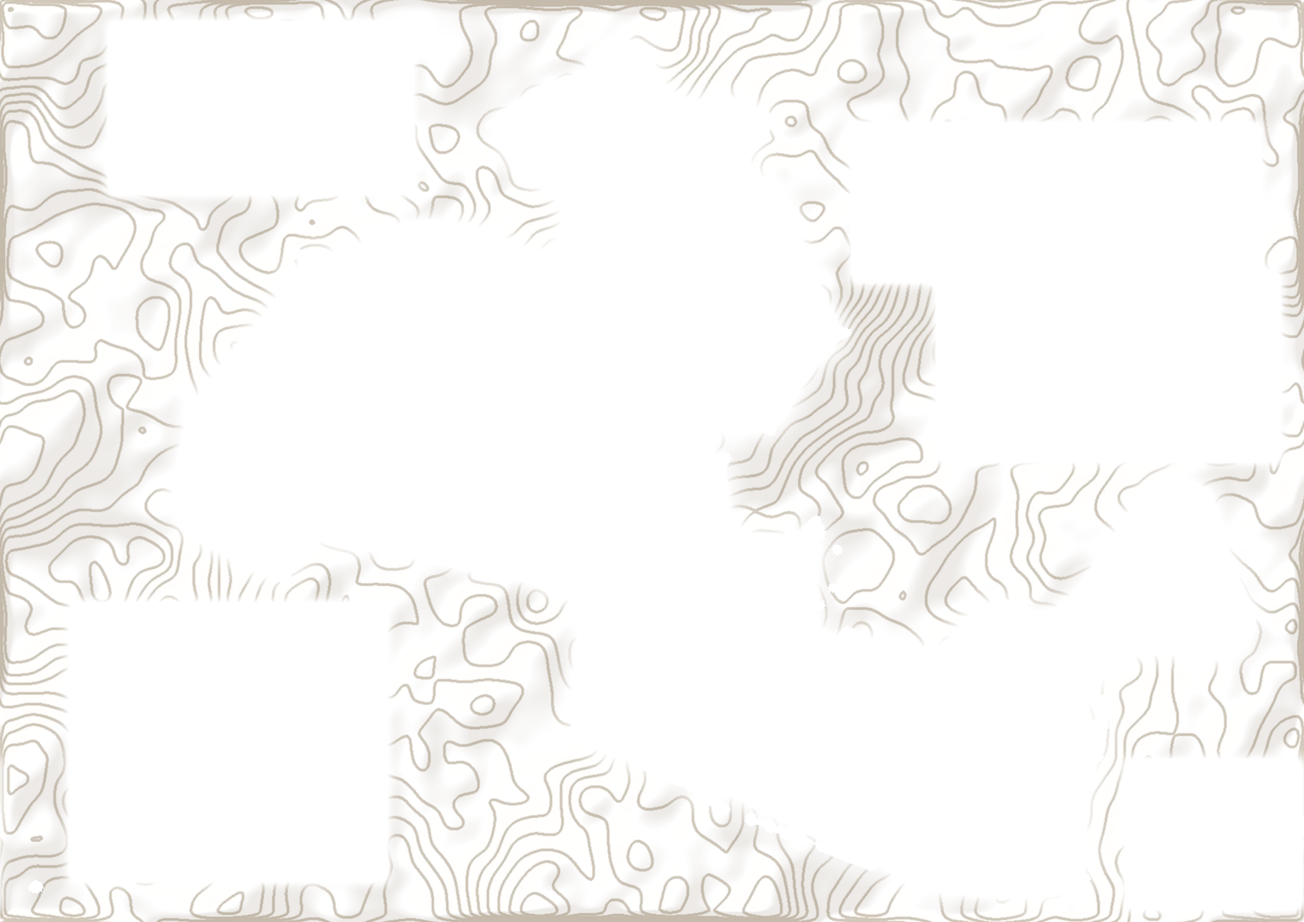
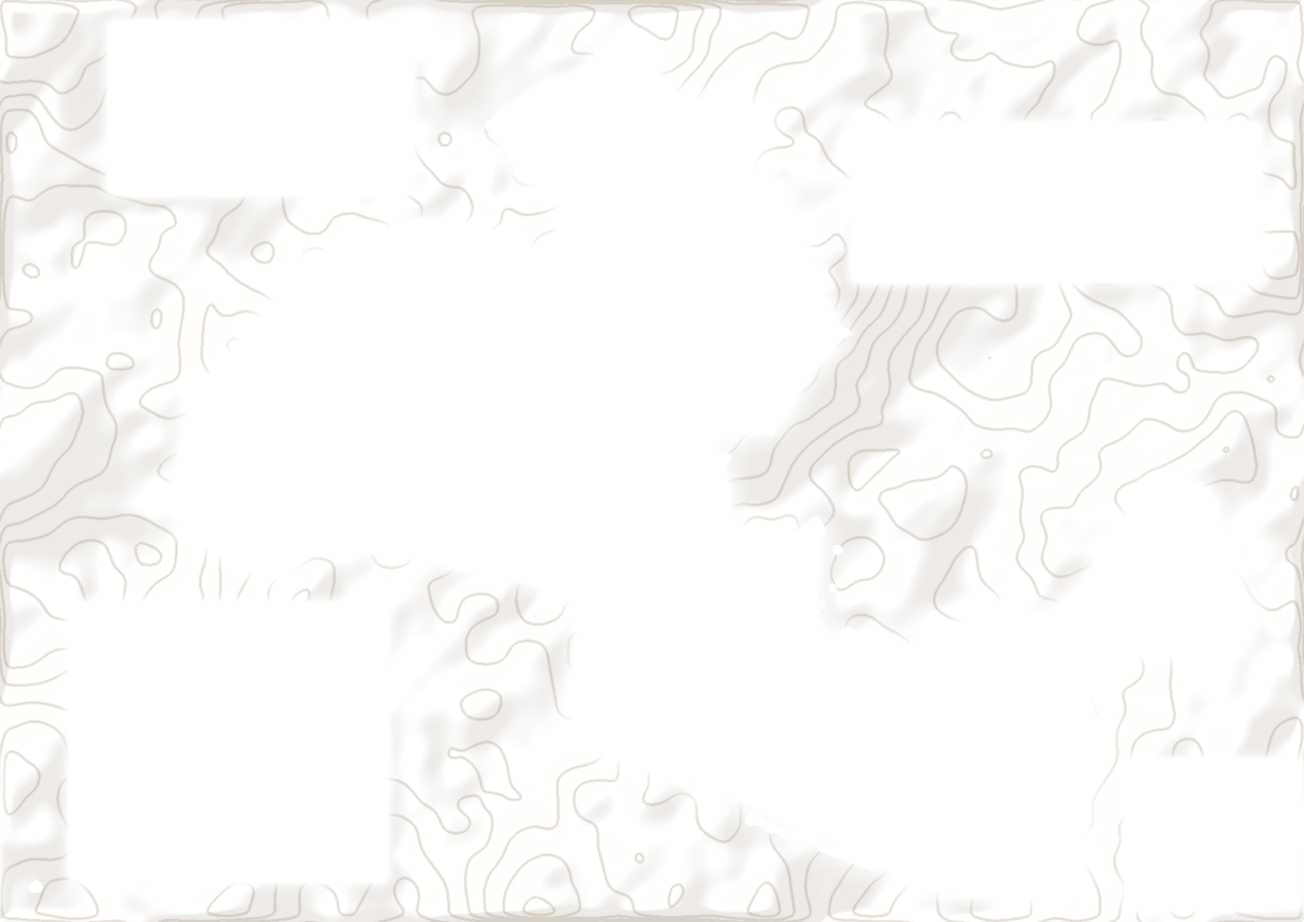
Public map: lighter contour lines; remove the cartouche (sun times) and the 'Peacock Green' label

diff --git a/src/lib/marginSpots.ts b/src/lib/marginSpots.ts
@@ -1,4 +1,4 @@
 // Generated by scripts/build_margin_art.py - do not edit by hand.
 // Spots on the blank paper around the estate (% of the plan): [x, y, size, group].
-export const STARS: [number, number, number, number][] = [[12.89, 96.7, 1.32, 2], [50.44, 87.89, 1.28, 1], [32.78, 87.74, 0.87, 0], [73.78, 8.49, 0.97, 3], [2.0, 44.81, 1.25, 1], [70.78, 5.35, 1.37, 0], [1.89, 65.72, 0.99, 1], [1.11, 97.17, 0.57, 3], [2.56, 9.91, 1.54, 1], [35.44, 8.02, 1.05, 4], [72.89, 10.69, 1.17, 2], [64.67, 1.89, 1.12, 3], [76.0, 8.81, 0.79, 4], [2.56, 81.6, 0.85, 2], [85.11, 4.09, 1.05, 4], [32.78, 80.82, 1.56, 1], [20.44, 64.94, 1.36, 0], [6.11, 0.63, 1.02, 1], [60.22, 91.82, 1.47, 2], [28.33, 0.0, 0.64, 3], [62.11, 51.73, 0.77, 2], [56.11, 91.04, 0.88, 1], [4.44, 88.21, 0.94, 4], [69.56, 37.26, 1.36, 0], [96.0, 77.83, 1.6, 0], [58.78, 98.43, 1.55, 0], [56.78, 49.37, 0.72, 3], [71.67, 41.04, 1.22, 3], [8.0, 24.53, 0.91, 0], [36.22, 63.99, 0.54, 0], [34.22, 91.04, 0.67, 0], [1.56, 65.09, 0.7, 3], [74.11, 98.43, 0.77, 4], [37.56, 73.74, 1.41, 4], [27.22, 61.16, 0.56, 0], [95.89, 74.53, 0.57, 2], [43.11, 81.45, 1.4, 4], [60.22, 98.27, 0.52, 2], [66.33, 50.63, 0.75, 4], [2.22, 81.45, 0.79, 2], [58.78, 96.7, 0.73, 2], [98.89, 33.33, 1.57, 1], [4.78, 82.23, 1.13, 1], [83.0, 99.69, 1.13, 4], [60.89, 19.18, 1.31, 1], [92.78, 10.85, 1.59, 2], [40.78, 23.11, 0.59, 2], [9.89, 30.66, 1.39, 2], [54.44, 49.21, 1.04, 3], [85.11, 56.6, 1.22, 3], [21.67, 22.8, 0.83, 1], [83.78, 58.02, 1.07, 2], [13.0, 33.49, 1.15, 0], [27.22, 0.47, 0.7, 1], [80.78, 99.37, 1.49, 1], [67.44, 50.0, 1.15, 2], [91.56, 11.64, 1.27, 1], [16.56, 96.54, 1.6, 1], [34.67, 99.06, 1.38, 4], [20.33, 96.86, 0.87, 3], [2.67, 60.38, 1.14, 2], [31.67, 67.77, 0.6, 2], [70.44, 47.01, 1.07, 3], [99.67, 28.3, 1.07, 1], [80.56, 51.26, 0.59, 3], [32.67, 97.64, 0.73, 2], [56.78, 55.97, 0.83, 4], [98.22, 38.36, 0.78, 3], [74.56, 9.28, 0.84, 0], [98.89, 25.16, 1.12, 2], [36.44, 15.72, 0.82, 0], [62.67, 28.3, 0.78, 0], [25.67, 0.0, 1.37, 0], [6.33, 10.53, 1.56, 1], [55.44, 92.3, 0.98, 4], [97.22, 10.69, 0.57, 3], [13.67, 27.83, 1.08, 1], [18.0, 36.95, 0.92, 0], [78.67, 97.96, 1.32, 3], [62.67, 8.49, 1.49, 4], [82.11, 6.29, 0.76, 2], [66.78, 37.42, 1.5, 2], [63.89, 19.97, 0.64, 4], [87.67, 70.91, 0.73, 1], [8.67, 27.52, 1.4, 3], [0.0, 11.32, 1.56, 0], [68.56, 59.59, 0.71, 0], [5.33, 25.16, 0.97, 2], [67.11, 58.02, 1.36, 2], [89.67, 81.6, 1.11, 4], [19.78, 1.26, 0.76, 2], [88.44, 8.18, 1.22, 1], [38.0, 15.57, 1.54, 2], [79.22, 1.89, 0.71, 2], [21.33, 24.21, 0.89, 0], [53.22, 93.71, 0.86, 2], [69.56, 37.89, 0.69, 2], [17.22, 97.17, 1.28, 4], [16.22, 28.93, 0.51, 4], [98.44, 33.02, 1.5, 1], [18.67, 25.94, 0.84, 0], [81.44, 55.66, 1.03, 1], [34.56, 69.97, 0.74, 2], [51.44, 9.43, 1.3, 2], [3.33, 21.23, 0.75, 4], [48.33, 1.73, 0.68, 1], [62.56, 99.06, 0.66, 2], [35.22, 5.82, 1.53, 1], [74.22, 7.39, 1.42, 4], [61.89, 26.73, 0.95, 3], [25.56, 65.25, 0.93, 3], [32.56, 77.2, 1.0, 3], [64.0, 66.82, 0.54, 0], [33.44, 0.0, 1.24, 0], [95.11, 55.82, 1.55, 0], [3.89, 14.15, 1.12, 4], [36.89, 67.92, 1.48, 2], [40.11, 87.42, 0.83, 3], [16.33, 34.43, 0.74, 0], [34.0, 75.0, 1.0, 2], [68.0, 2.67, 0.81, 0], [50.22, 99.84, 1.31, 2], [34.33, 15.41, 0.88, 1], [68.78, 13.21, 0.76, 3], [0.22, 87.89, 1.59, 2], [65.56, 61.48, 0.69, 1], [69.44, 10.53, 1.35, 4], [66.22, 64.15, 1.16, 2], [37.33, 66.04, 1.07, 2], [65.67, 35.53, 0.61, 3], [20.67, 97.33, 1.59, 2], [38.89, 3.46, 1.3, 0], [57.78, 1.57, 0.99, 2], [36.89, 93.55, 1.46, 1], [3.11, 54.09, 0.72, 0], [35.56, 6.92, 1.55, 4], [97.11, 78.14, 1.41, 3], [62.67, 22.01, 1.09, 3], [57.67, 6.13, 1.09, 0], [12.44, 25.94, 1.19, 3], [70.22, 53.46, 1.03, 0], [58.11, 95.6, 1.54, 4], [42.33, 86.32, 0.55, 0], [94.67, 12.42, 0.61, 0], [53.0, 98.74, 1.48, 3], [1.33, 26.26, 0.67, 2], [25.44, 25.31, 0.74, 4], [62.0, 2.04, 1.09, 3], [40.67, 65.88, 0.63, 3], [61.78, 51.42, 1.03, 2], [4.0, 55.35, 0.89, 4], [17.33, 0.79, 1.38, 1], [6.44, 42.61, 1.54, 2], [15.44, 40.88, 0.94, 3], [11.33, 62.89, 0.58, 4], [12.11, 30.03, 0.87, 1], [86.11, 80.66, 0.94, 0], [7.11, 48.58, 0.95, 4], [32.78, 0.94, 0.96, 1], [0.0, 26.57, 1.25, 3], [41.22, 22.33, 0.77, 2], [76.67, 0.0, 1.28, 0], [42.0, 94.34, 0.96, 3], [69.33, 40.25, 1.01, 4], [4.89, 82.39, 1.42, 0], [31.11, 62.58, 0.89, 2], [67.89, 68.55, 1.52, 1], [73.56, 52.36, 0.84, 0], [70.67, 44.5, 0.92, 0], [92.89, 5.35, 1.07, 3], [67.0, 63.21, 0.94, 3], [12.0, 25.63, 1.25, 1], [46.56, 85.06, 1.52, 0], [98.0, 11.01, 1.01, 2], [13.89, 35.85, 0.99, 2], [1.67, 34.12, 0.8, 2], [79.78, 65.57, 1.0, 4], [15.67, 96.38, 0.61, 2], [8.67, 25.0, 1.03, 1], [30.78, 74.21, 0.9, 1], [1.78, 31.45, 1.48, 0], [0.22, 88.36, 0.67, 4], [34.44, 20.91, 0.97, 3], [58.11, 57.39, 1.04, 1], [97.89, 52.67, 0.52, 3], [13.89, 43.55, 1.04, 0], [63.78, 32.23, 0.97, 2], [0.78, 72.48, 0.5, 2], [49.78, 85.85, 1.04, 0], [4.56, 67.92, 1.0, 4], [64.33, 11.01, 0.63, 1], [47.0, 2.52, 0.9, 4], [99.56, 69.5, 1.4, 3], [76.56, 97.96, 1.34, 3], [7.56, 15.72, 0.87, 0], [96.89, 8.18, 1.04, 3], [71.11, 36.95, 1.12, 4], [98.89, 50.47, 1.38, 4], [1.33, 47.8, 0.58, 3], [69.67, 63.52, 1.58, 4], [79.78, 55.66, 1.16, 2], [70.89, 62.42, 0.79, 0], [49.22, 89.62, 1.6, 4], [85.33, 92.92, 0.88, 1], [0.89, 66.04, 0.57, 2], [1.22, 89.62, 1.34, 0], [0.11, 99.06, 0.76, 3], [39.67, 66.19, 1.41, 1], [12.89, 39.15, 1.52, 2], [55.56, 99.53, 1.4, 4], [71.44, 45.44, 0.76, 0], [99.0, 63.52, 1.43, 4], [62.78, 45.75, 0.64, 0], [3.78, 31.29, 1.51, 1], [4.78, 16.35, 0.78, 4], [17.89, 28.46, 0.87, 3], [5.11, 82.86, 0.64, 0], [34.67, 68.71, 0.51, 3], [67.22, 12.26, 1.17, 2], [88.22, 75.63, 0.66, 3], [38.44, 86.16, 1.04, 4], [70.0, 63.36, 1.16, 2], [96.89, 58.65, 0.73, 3], [0.67, 51.73, 1.38, 4], [28.22, 96.07, 1.05, 2], [44.0, 82.55, 0.64, 4], [43.89, 8.02, 1.0, 1], [6.44, 2.36, 1.3, 4], [22.56, 29.25, 1.12, 2], [81.33, 10.69, 1.33, 1], [37.56, 2.67, 0.52, 2], [48.56, 79.09, 1.12, 1], [4.44, 21.86, 0.54, 4], [33.0, 0.47, 1.01, 3], [83.0, 61.32, 1.04, 3], [39.11, 5.97, 0.61, 1], [36.78, 70.91, 0.59, 2], [1.0, 42.92, 0.58, 1], [86.22, 96.54, 0.7, 1], [89.11, 8.02, 1.05, 2], [4.89, 7.86, 0.74, 4], [88.78, 77.83, 1.59, 3], [86.56, 81.6, 1.42, 1], [59.67, 0.16, 1.08, 2], [51.44, 90.25, 1.45, 3], [73.11, 62.26, 1.43, 2], [34.56, 5.5, 1.48, 0], [86.44, 2.83, 0.63, 4], [59.44, 11.64, 0.55, 3], [85.44, 80.97, 0.83, 4], [80.78, 57.23, 1.18, 0], [69.11, 51.42, 0.85, 2], [37.0, 90.88, 0.74, 2], [95.78, 81.45, 0.94, 4], [77.0, 54.87, 1.16, 4], [13.11, 22.01, 1.04, 1], [4.11, 64.78, 1.59, 3], [10.67, 53.46, 0.87, 2], [28.0, 21.7, 0.76, 0], [6.0, 58.81, 0.67, 1]];
-export const VILLAGE_LIGHTS: [number, number, number, number][] = [[21.2, 24.07, 0.73, 2], [22.67, 26.15, 0.99, 2], [21.64, 25.37, 1.08, 2], [21.46, 24.75, 1.2, 0], [21.53, 25.68, 0.81, 1], [22.05, 24.91, 1.32, 2], [21.92, 25.34, 0.74, 2], [19.73, 25.32, 1.28, 2], [21.34, 25.27, 0.63, 2], [21.25, 25.86, 0.72, 2], [57.75, 5.21, 0.98, 0], [57.48, 4.51, 1.34, 2], [56.69, 5.44, 1.06, 1], [56.8, 4.73, 0.69, 1], [57.14, 4.29, 1.09, 0], [57.08, 6.29, 0.73, 3], [84.43, 2.92, 1.07, 0], [84.19, 5.34, 0.84, 1], [85.23, 4.9, 0.98, 3], [84.17, 3.11, 0.61, 1], [84.91, 3.36, 0.96, 3], [85.81, 4.81, 0.92, 2], [85.38, 4.16, 1.01, 0], [0.86, 48.45, 1.27, 1], [0.38, 49.91, 1.35, 3], [0.31, 48.47, 0.62, 2], [0.53, 48.38, 0.93, 1], [1.08, 50.83, 0.62, 3], [8.53, 50.68, 1.11, 3], [8.52, 50.09, 1.38, 0], [7.75, 51.4, 1.35, 3], [9.87, 51.39, 1.12, 0], [8.2, 51.68, 0.83, 0], [95.1, 73.02, 0.88, 1], [96.72, 73.65, 1.1, 2], [95.96, 72.94, 1.14, 0], [96.57, 73.09, 1.23, 3], [95.76, 70.65, 0.85, 3], [96.27, 71.91, 0.98, 1], [97.06, 72.94, 0.7, 0], [98.66, 80.31, 0.97, 0], [97.69, 80.34, 1.03, 0], [99.46, 80.03, 1.39, 3], [98.91, 78.45, 1.31, 0], [98.62, 79.86, 1.08, 3], [98.08, 79.99, 0.75, 0], [65.14, 97.94, 1.2, 3], [63.95, 97.63, 0.75, 0], [66.0, 97.16, 0.64, 0], [63.9, 98.06, 1.13, 3], [63.2, 96.85, 1.02, 1], [65.38, 98.06, 1.35, 3], [64.25, 97.34, 0.92, 0], [77.02, 99.37, 0.77, 2], [75.52, 99.76, 1.13, 2], [75.77, 99.75, 0.92, 0], [77.13, 98.35, 0.82, 1], [77.08, 99.66, 1.03, 3]];
+export const STARS: [number, number, number, number][] = [[9.56, 96.23, 1.32, 2], [47.11, 85.53, 1.28, 1], [48.11, 85.22, 0.87, 0], [37.44, 9.75, 0.97, 3], [98.78, 41.98, 1.25, 1], [57.33, 6.13, 1.37, 0], [67.78, 62.89, 0.99, 1], [31.0, 96.7, 0.57, 3], [72.22, 11.32, 1.54, 1], [40.22, 9.12, 1.05, 4], [71.11, 12.42, 1.17, 2], [13.0, 2.2, 1.12, 3], [76.33, 10.06, 0.79, 4], [39.67, 78.77, 0.85, 2], [71.0, 4.72, 1.05, 4], [42.0, 77.83, 1.56, 1], [7.78, 62.26, 1.36, 0], [53.78, 0.63, 1.02, 1], [4.0, 90.41, 1.47, 2], [31.67, 0.0, 0.64, 3], [68.67, 47.33, 0.77, 2], [2.11, 89.47, 0.88, 1], [38.11, 85.85, 0.94, 4], [89.33, 37.74, 1.36, 0], [86.0, 74.53, 1.6, 0], [38.67, 98.27, 1.55, 0], [82.56, 44.97, 0.72, 3], [84.78, 39.94, 1.22, 3], [98.44, 28.93, 0.91, 0], [78.44, 61.01, 0.54, 0], [38.44, 89.31, 0.67, 0], [97.89, 62.26, 0.7, 3], [55.44, 98.27, 0.77, 4], [35.33, 69.34, 1.41, 4], [72.11, 56.92, 0.56, 0], [34.56, 70.6, 0.57, 2], [89.44, 78.62, 1.4, 4], [28.11, 98.11, 0.52, 2], [83.44, 46.07, 0.75, 4], [31.44, 78.62, 0.79, 2], [60.22, 96.23, 0.73, 2], [0.22, 35.53, 1.57, 1], [41.56, 79.56, 1.13, 1], [70.0, 99.69, 1.13, 4], [16.22, 22.64, 1.31, 1], [6.89, 12.74, 1.59, 2], [21.0, 26.73, 0.59, 2], [79.67, 33.65, 1.39, 2], [0.89, 44.97, 1.04, 3], [70.22, 52.2, 1.22, 3], [61.78, 26.1, 0.83, 1], [83.78, 53.62, 1.07, 2], [16.0, 35.53, 1.15, 0], [65.56, 0.47, 0.7, 1], [44.33, 99.37, 1.49, 1], [73.11, 45.44, 1.15, 2], [97.56, 13.99, 1.27, 1], [4.33, 96.07, 1.6, 1], [70.44, 98.9, 1.38, 4], [27.89, 96.38, 0.87, 3], [0.33, 55.97, 1.14, 2], [69.78, 64.15, 0.6, 2], [92.78, 43.4, 1.07, 3], [79.0, 32.39, 1.07, 1], [73.67, 46.86, 0.59, 3], [38.89, 97.33, 0.73, 2], [95.0, 51.42, 0.83, 4], [93.22, 38.36, 0.78, 3], [39.0, 10.69, 0.84, 0], [62.78, 30.19, 1.12, 2], [62.44, 20.13, 0.82, 0], [73.11, 32.39, 0.78, 0], [28.67, 0.0, 1.37, 0], [81.22, 12.11, 1.56, 1], [44.22, 90.88, 0.98, 4], [98.78, 12.42, 0.57, 3], [78.67, 32.08, 1.08, 1], [76.67, 37.58, 0.92, 0], [31.22, 97.8, 1.32, 3], [2.0, 9.75, 1.49, 4], [53.11, 7.23, 0.76, 2], [16.56, 37.89, 1.5, 2], [14.89, 23.11, 0.64, 4], [1.56, 66.35, 0.73, 1], [21.11, 31.92, 1.4, 3], [85.0, 13.05, 1.56, 0], [3.44, 55.19, 0.71, 0], [12.33, 30.03, 0.97, 2], [64.33, 53.62, 1.36, 2], [33.89, 78.93, 1.11, 4], [15.89, 1.42, 0.76, 2], [33.33, 9.43, 1.22, 1], [62.22, 19.97, 1.54, 2], [29.0, 2.2, 0.71, 2], [2.33, 28.62, 0.89, 0], [58.89, 92.45, 0.86, 2], [4.11, 38.21, 0.69, 2], [47.67, 96.7, 1.28, 4], [80.11, 32.7, 0.51, 4], [84.89, 35.22, 1.5, 1], [87.89, 30.82, 0.84, 0], [64.67, 51.26, 1.03, 1], [80.22, 65.41, 0.74, 2], [4.0, 10.85, 1.3, 2], [23.11, 23.9, 0.75, 4], [82.89, 1.89, 0.68, 1], [0.11, 99.06, 0.66, 2], [44.78, 6.6, 1.53, 1], [35.33, 8.49, 1.42, 4], [70.56, 31.45, 0.95, 3], [63.0, 62.58, 0.93, 3], [86.56, 73.74, 1.0, 3], [28.11, 63.68, 0.54, 0], [37.44, 0.0, 1.24, 0], [71.78, 51.42, 1.55, 0], [7.89, 18.55, 1.12, 4], [27.11, 64.31, 1.48, 2], [35.78, 84.91, 0.83, 3], [10.22, 36.16, 0.74, 0], [96.78, 71.07, 1.0, 2], [36.44, 3.14, 0.81, 0], [47.56, 99.84, 1.31, 2], [37.11, 19.81, 0.88, 1], [2.0, 17.61, 0.76, 3], [49.0, 85.38, 1.59, 2], [66.33, 57.39, 0.69, 1], [8.33, 12.26, 1.35, 4], [15.11, 61.32, 1.16, 2], [10.89, 63.21, 1.07, 2], [72.22, 36.79, 0.61, 3], [67.33, 96.86, 1.59, 2], [55.44, 3.93, 1.3, 0], [81.78, 1.73, 0.99, 2], [34.67, 92.3, 1.46, 1], [1.11, 49.69, 0.72, 0], [38.56, 7.86, 1.55, 4], [96.0, 74.84, 1.41, 3], [6.67, 25.16, 1.09, 3], [87.78, 6.92, 1.09, 0], [80.89, 30.82, 1.19, 3], [74.44, 49.06, 1.03, 0], [35.78, 94.81, 1.54, 4], [84.56, 83.33, 0.55, 0], [5.56, 16.04, 0.61, 0], [68.44, 98.58, 1.48, 3], [94.78, 30.97, 0.67, 2], [63.78, 30.35, 0.74, 4], [44.78, 2.36, 1.09, 3], [62.44, 63.05, 0.63, 3], [56.78, 47.01, 1.03, 2], [87.67, 50.79, 0.89, 4], [78.0, 0.79, 1.38, 1], [6.0, 40.88, 1.54, 2], [95.89, 39.78, 0.94, 3], [66.67, 59.43, 0.58, 4], [68.22, 33.33, 0.87, 1], [92.0, 77.67, 0.94, 0], [11.11, 44.5, 0.95, 4], [6.89, 1.1, 0.96, 1], [15.33, 31.29, 1.25, 3], [64.67, 25.47, 0.77, 2], [85.67, 0.0, 1.28, 0], [30.67, 93.24, 0.96, 3], [87.67, 39.47, 1.01, 4], [88.56, 79.72, 1.42, 0], [74.78, 58.96, 0.89, 2], [75.89, 64.62, 1.52, 1], [85.33, 47.96, 0.84, 0], [61.44, 41.98, 0.92, 0], [82.22, 6.13, 1.07, 3], [9.56, 60.06, 0.94, 3], [11.0, 30.66, 1.25, 1], [93.44, 81.92, 1.52, 0], [71.22, 12.89, 1.01, 2], [75.22, 36.95, 0.99, 2], [79.0, 35.85, 0.8, 2], [36.22, 62.89, 1.0, 4], [61.33, 95.75, 0.61, 2], [98.33, 29.72, 1.03, 1], [3.67, 69.97, 0.9, 1], [83.78, 34.12, 1.48, 0], [40.78, 86.01, 0.67, 4], [40.44, 23.58, 0.97, 3], [9.67, 52.99, 1.04, 1], [3.44, 48.43, 0.52, 3], [81.67, 41.35, 1.04, 0], [17.33, 34.75, 0.97, 2], [38.67, 67.77, 0.5, 2], [30.56, 82.86, 1.04, 0], [18.56, 64.31, 1.0, 4], [88.0, 12.74, 0.63, 1], [80.78, 2.83, 0.9, 4], [17.56, 65.25, 1.4, 3], [27.22, 97.8, 1.34, 3], [37.89, 20.13, 0.87, 0], [52.67, 9.43, 1.04, 3], [84.22, 37.58, 1.12, 4], [8.67, 46.07, 1.38, 4], [82.22, 43.87, 0.58, 3], [1.78, 60.53, 1.58, 4], [63.22, 51.26, 1.16, 2], [67.22, 58.81, 0.79, 0], [85.0, 87.58, 1.6, 4], [40.56, 91.67, 0.88, 1], [97.56, 63.05, 0.57, 2], [31.33, 87.58, 1.34, 0], [33.0, 98.9, 0.76, 3], [79.22, 63.21, 1.41, 1], [71.22, 38.84, 1.52, 2], [28.22, 99.53, 1.4, 4], [85.44, 42.45, 0.76, 0], [26.22, 60.53, 1.43, 4], [84.56, 42.61, 0.64, 0], [5.67, 34.12, 1.51, 1], [97.0, 20.75, 0.78, 4], [99.22, 32.39, 0.87, 3], [4.0, 80.19, 0.64, 0], [14.11, 64.78, 0.51, 3], [96.89, 15.41, 1.17, 2], [40.0, 72.01, 0.66, 3], [36.44, 83.18, 1.04, 4], [72.11, 60.22, 1.16, 2], [79.89, 54.25, 0.73, 3], [5.78, 47.33, 1.38, 4], [56.78, 95.44, 1.05, 2], [99.33, 79.87, 0.64, 4], [57.0, 9.12, 1.0, 1], [52.44, 2.67, 1.3, 4], [95.44, 32.86, 1.12, 2], [80.67, 12.42, 1.33, 1], [79.33, 2.99, 0.52, 2], [32.22, 75.94, 1.12, 1], [36.89, 24.69, 0.54, 4], [72.0, 0.47, 1.01, 3], [69.44, 57.23, 1.04, 3], [63.44, 6.76, 0.61, 1], [69.0, 66.19, 0.59, 2], [7.22, 41.04, 0.58, 1], [67.44, 96.07, 0.7, 1], [0.67, 9.28, 1.05, 2], [98.78, 8.81, 0.74, 4], [39.78, 74.53, 1.59, 3], [30.56, 78.93, 1.42, 1], [78.44, 0.16, 1.08, 2], [53.56, 88.36, 1.45, 3], [84.89, 58.49, 1.43, 2], [3.0, 6.29, 1.48, 0], [66.22, 3.3, 0.63, 4], [7.22, 13.84, 0.55, 3], [30.33, 78.14, 0.83, 4], [74.44, 52.83, 1.18, 0], [68.0, 47.01, 0.85, 2], [34.33, 89.15, 0.74, 2], [31.44, 78.77, 0.94, 4], [70.11, 50.47, 1.16, 4], [12.0, 25.0, 1.04, 1], [64.11, 61.95, 1.59, 3], [13.0, 49.06, 0.87, 2], [99.11, 24.53, 0.76, 0], [97.0, 54.25, 0.67, 1]];
+export const VILLAGE_LIGHTS: [number, number, number, number][] = [[21.2, 24.07, 0.73, 2], [22.67, 26.15, 0.99, 2], [21.64, 25.37, 1.08, 2], [21.46, 24.75, 1.2, 0], [21.53, 25.68, 0.81, 1], [22.05, 24.91, 1.32, 2], [21.92, 25.34, 0.74, 2], [19.73, 25.32, 1.28, 2], [21.34, 25.27, 0.63, 2], [21.25, 25.86, 0.72, 2], [57.75, 5.21, 0.98, 0], [57.48, 4.51, 1.34, 2], [56.69, 5.44, 1.06, 1], [56.8, 4.73, 0.69, 1], [57.14, 4.29, 1.09, 0], [57.08, 6.29, 0.73, 3], [84.43, 2.92, 1.07, 0], [84.19, 5.34, 0.84, 1], [85.23, 4.9, 0.98, 3], [84.17, 3.11, 0.61, 1], [84.91, 3.36, 0.96, 3], [85.81, 4.81, 0.92, 2], [85.38, 4.16, 1.01, 0], [0.86, 48.45, 1.27, 1], [0.38, 49.91, 1.35, 3], [0.31, 48.47, 0.62, 2], [0.53, 48.38, 0.93, 1], [1.08, 50.83, 0.62, 3], [8.53, 50.68, 1.11, 3], [8.52, 50.09, 1.38, 0], [7.75, 51.4, 1.35, 3], [9.87, 51.39, 1.12, 0], [8.2, 51.68, 0.83, 0], [94.65, 71.92, 0.88, 1], [96.28, 72.55, 1.1, 2], [95.52, 71.84, 1.14, 0], [96.13, 71.99, 1.23, 3], [95.48, 70.58, 1.4, 3], [95.61, 72.1, 0.91, 2], [99.55, 54.99, 0.97, 2], [84.33, 93.12, 1.32, 0], [84.84, 93.54, 1.08, 3], [85.85, 93.76, 0.98, 1], [84.58, 93.96, 1.34, 2], [84.95, 93.22, 0.75, 3], [85.91, 94.84, 0.61, 3], [84.9, 93.66, 1.13, 0], [64.64, 99.36, 1.02, 2], [66.28, 99.02, 0.69, 3], [65.7, 99.85, 0.92, 3], [65.8, 99.37, 0.77, 0], [65.35, 98.57, 0.81, 3], [64.54, 99.75, 0.92, 2]];

diff --git a/src/components/Cartouche.tsx b/src/components/Cartouche.tsx
@@ -1,70 +1,22 @@
 import { useEffect, useState, type CSSProperties } from 'react';
 import { feelsWord, skyWord, aqiWord, type Atmosphere } from '@/lib/mapInfo';
-import { bodyOnArc, clockText, postcardLine, rainLevel } from '@/lib/sky';
+import { clockText, postcardLine, rainLevel } from '@/lib/sky';
 import { lxEyebrow } from '@/lib/luxury';
 
-// Two things "printed" on the blank paper: a gold-framed cartouche (title, north rose, scale bar, sun times)
-// in the east, and a "Today at Zion Hills" postcard in the north-west. They are part of the map, so they
-// grow as you zoom in, and stay upright when the map turns.
+// A "Today at Zion Hills" postcard "pinned" on the blank paper in the north-west: today's weather and one line
+// about the day. It is part of the map, so it grows as you zoom in, and stays upright when the map turns.
 
 type Pt = [number, number];
 
-const CARTOUCHE_AT: Pt = [73.5, 31.0]; // top-left corner, % of the plan
-const CARTOUCHE_W = 20;                // width, % of the plan
-const POSTCARD_AT: Pt = [9.8, 3.6];
-const POSTCARD_W = 18;
+const POSTCARD_AT: Pt = [9.8, 3.6]; // top-left corner, % of the plan
+const POSTCARD_W = 18;              // width, % of the plan
 
-const METRES_PER_PCT = 23.7; // plan width -> metres, from the GPS calibration
-
-function Rose({ size }: { size: number }) {
-  return (
-    <svg width={size} height={size} viewBox="-50 -50 100 100" className="overflow-visible">
-      <circle r={44} fill="none" stroke="#b8924f" strokeWidth={1.2} />
-      <circle r={37} fill="none" stroke="#c9a96e" strokeWidth={0.6} strokeDasharray="1 3.2" />
-      {Array.from({ length: 16 }, (_, i) => (
-        <line key={i} x1={0} y1={-44} x2={0} y2={i % 4 === 0 ? -37 : -40.5} stroke="#8a7a52" strokeWidth={i % 4 === 0 ? 1.4 : 0.8} transform={`rotate(${i * 22.5})`} />
-      ))}
-      <path d="M0 -36 L5 -5 L-5 -5 Z" fill="#d9480f" />
-      <path d="M0 36 L5 5 L-5 5 Z" fill="#13261c" />
-      <path d="M-36 0 L-5 -5 L-5 5 Z" fill="#13261c" opacity={0.85} />
-      <path d="M36 0 L5 -5 L5 5 Z" fill="#13261c" opacity={0.85} />
-      <path d="M0 -26 L9 -9 L26 0 L9 9 L0 26 L-9 9 L-26 0 L-9 -9 Z" fill="none" stroke="#b8924f" strokeWidth={0.8} transform="rotate(45) scale(0.72)" />
-      <circle r={4} fill="#fbf7ee" stroke="#13261c" strokeWidth={1.4} />
-      <text y={-47} x={0} textAnchor="middle" fontSize={15} fontWeight={800} fill="#d9480f" fontFamily="Cormorant Garamond, serif" transform="translate(0 -2)">N</text>
-    </svg>
-  );
-}
-
-function SunArc({ now, a, night }: { now: Date; a: Atmosphere | null; night: number }) {
-  const { t, moon } = bodyOnArc(now, a?.sunrise ?? null, a?.sunset ?? null, night);
-  const x = 8 + t * 144, y = 56 - Math.sin(Math.PI * t) * 44;
-  return (
-    <svg width={160} height={66} viewBox="0 0 160 66" className="overflow-visible">
-      <line x1={0} y1={56} x2={160} y2={56} stroke="#c9a96e" strokeWidth={0.9} />
-      <path d="M 8 56 Q 80 -32 152 56" fill="none" stroke="#b8924f" strokeWidth={1} strokeDasharray="1.5 4" />
-      <circle cx={8} cy={56} r={2.4} fill="#c9a96e" /><circle cx={152} cy={56} r={2.4} fill="#c9a96e" />
-      {moon ? (
-        <g transform={`translate(${x} ${y})`}><circle r={6.5} fill="#f4ecd2" stroke="#b8924f" strokeWidth={0.8} /><circle cx={2.6} cy={-1} r={5.4} fill="#fbf7ee" /></g>
-      ) : (
-        <g transform={`translate(${x} ${y})`}><circle r={11} fill="#ffd978" opacity={0.28} /><circle r={6.2} fill="#f6b73c" stroke="#fff1c4" strokeWidth={1} /></g>
-      )}
-    </svg>
-  );
-}
-
-function niceLength(maxMetres: number): number {
-  for (const m of [1000, 500, 250, 200, 100, 50, 25, 10]) if (m <= maxMetres) return m;
-  return 10;
-}
-
-export function Cartouche({ toScreen, zoom, layerWidth, upright, turned, atmosphere, night }: {
+export function Postcard({ toScreen, zoom, layerWidth, upright, atmosphere, night }: {
   toScreen: (p: Pt) => number[];
   zoom: number;
   /** Width of the un-zoomed plan layer, in pixels. */
   layerWidth: number;
   upright?: CSSProperties;
-  /** How far the map is turned, in degrees (the rose turns with it so it always points to true north). */
-  turned: number;
   atmosphere: Atmosphere | null;
   night: number;
 }) {
@@ -72,82 +24,41 @@ export function Cartouche({ toScreen, zoom, layerWidth, upright, turned, atmosph
   useEffect(() => { const t = window.setInterval(() => setNow(new Date()), 60 * 1000); return () => window.clearInterval(t); }, []);
 
   const pxPerPct = (zoom * layerWidth) / 100;
-  const kC = (CARTOUCHE_W * pxPerPct) / 330;
   const kP = (POSTCARD_W * pxPerPct) / 300;
-  if (zoom < 1.05) return null;
+  if (zoom < 1.05 || kP < 0.42) return null;
 
-  // a scale bar that comes out between 60 and 110 screen pixels
-  const metresPerPx = METRES_PER_PCT / pxPerPct;
-  const barMetres = niceLength(110 * metresPerPx);
-  const barPx = barMetres / metresPerPx / kC;
-
-  const [cx, cy] = toScreen(CARTOUCHE_AT);
   const [px, py] = toScreen(POSTCARD_AT);
   const rain = rainLevel(atmosphere?.code);
   const A = atmosphere;
-  const times = A?.sunrise && A?.sunset ? { rise: clockText(A.sunrise), set: clockText(A.sunset) } : null;
+  const setTime = A?.sunset ? clockText(A.sunset) : null;
 
   return (
     <div className="pointer-events-none absolute inset-0" style={{ zIndex: 12, opacity: 1 - 0.22 * night, transition: 'opacity 3s ease' }}>
-      {kC >= 0.42 && (
-        <div className="absolute" style={{ left: cx, top: cy, ...upright, transformOrigin: '0 0' }}>
-          <div style={{ width: 330, transform: `scale(${kC})`, transformOrigin: '0 0' }} className="relative">
-            <div className="rounded-[4px] bg-[#f8f0da]/[0.93] p-[5px] shadow-[0_16px_34px_-14px_rgba(60,40,10,0.55)] ring-[1.5px] ring-[#b8924f]">
-              <div className="rounded-[2px] border border-[#c9a96e] px-5 pb-3 pt-3">
-                <div className={`${lxEyebrow} text-center text-[#7a6830]`}>&mdash; Master Plan &mdash;</div>
-                <div className="text-center font-serif text-[44px] font-semibold leading-[0.95] text-[#13261c]">Zion Hills</div>
-                <div className="mt-0.5 text-center text-[11px] font-semibold uppercase tracking-[0.46em] text-[#d9480f]">Golf County</div>
-                <div className="my-2 flex items-center gap-2"><span className="h-px flex-1 bg-gradient-to-r from-transparent to-[#c9a96e]" /><span className="h-1.5 w-1.5 rotate-45 bg-[#c9a96e]" /><span className="h-px flex-1 bg-gradient-to-l from-transparent to-[#c9a96e]" /></div>
-                <div className="flex items-center justify-between gap-2">
-                  <div style={{ transform: `rotate(${-turned}deg)` }}><Rose size={76} /></div>
-                  <div className="text-center">
-                    <SunArc now={now} a={A} night={night} />
-                    {times && (
-                      <div className="-mt-1 flex justify-between px-1 text-[10.5px] font-semibold text-[#5b5a4c]"><span>&#9728; {times.rise}</span><span>{times.set} &#9790;</span></div>
-                    )}
-                  </div>
-                </div>
-                <div className="mt-2.5 flex items-center gap-2">
-                  <div className="relative h-[7px]" style={{ width: barPx }}>
-                    <div className="absolute inset-x-0 top-[3px] h-px bg-[#13261c]" />
-                    <div className="absolute bottom-0 left-0 top-0 w-px bg-[#13261c]" /><div className="absolute bottom-0 right-0 top-0 w-px bg-[#13261c]" /><div className="absolute bottom-0 left-1/2 top-[2px] w-px bg-[#13261c]" />
-                  </div>
-                  <span className="text-[10.5px] font-semibold tabular-nums text-[#13261c]">{barMetres >= 1000 ? `${barMetres / 1000} km` : `${barMetres} m`}</span>
-                  <span className="ml-auto text-[10px] italic text-[#6f5f2f]">north up</span>
-                </div>
+      <div className="absolute" style={{ left: px, top: py, ...upright, transformOrigin: '0 0' }}>
+        <div style={{ width: 300, transform: `scale(${kP}) rotate(-2.2deg)`, transformOrigin: '0 0' }} className="relative">
+          <span className="absolute -top-2 left-6 h-4 w-14 -rotate-6 bg-[#e3c98d]/[0.7]" />
+          <span className="absolute -top-2 right-10 h-4 w-12 rotate-3 bg-[#e3c98d]/[0.7]" />
+          <div className="relative rounded-[3px] bg-gradient-to-br from-[#fffaf0] to-[#f2e8cf] px-4 pb-3 pt-3.5 shadow-[0_18px_34px_-14px_rgba(60,40,10,0.6)] ring-1 ring-[#d9c79b]">
+            <div className="absolute right-3 top-3 grid h-11 w-11 rotate-6 place-items-center rounded-[3px] border-2 border-dashed border-[#b8924f] text-center font-serif text-[10px] font-semibold leading-tight text-[#9a6b2a]">Zion<br />Hills</div>
+            <div className={`${lxEyebrow} text-[#7a6830]`}>Today at</div>
+            <div className="font-serif text-[27px] font-semibold italic leading-none text-[#13261c]">Zion Hills</div>
+            <div className="mt-2 flex items-end gap-3">
+              <div className="font-serif text-[52px] font-semibold leading-[0.85] text-[#13261c]">{A ? `${Math.round(A.tempC)}°` : '—'}</div>
+              <div className="pb-0.5 text-[12px] leading-tight text-[#5b5a4c]">
+                {A ? <><b className="text-[#13261c]">{rain > 0.3 ? 'Raining' : skyWord(A.code, A.isDay)}</b><br />{feelsWord(A.feelsC)}, feels {Math.round(A.feelsC)}&deg;</> : 'Weather loading'}
               </div>
             </div>
-          </div>
-        </div>
-      )}
-
-      {kP >= 0.42 && (
-        <div className="absolute" style={{ left: px, top: py, ...upright, transformOrigin: '0 0' }}>
-          <div style={{ width: 300, transform: `scale(${kP}) rotate(-2.2deg)`, transformOrigin: '0 0' }} className="relative">
-            <span className="absolute -top-2 left-6 h-4 w-14 -rotate-6 bg-[#e3c98d]/[0.7]" />
-            <span className="absolute -top-2 right-10 h-4 w-12 rotate-3 bg-[#e3c98d]/[0.7]" />
-            <div className="relative rounded-[3px] bg-gradient-to-br from-[#fffaf0] to-[#f2e8cf] px-4 pb-3 pt-3.5 shadow-[0_18px_34px_-14px_rgba(60,40,10,0.6)] ring-1 ring-[#d9c79b]">
-              <div className="absolute right-3 top-3 grid h-11 w-11 rotate-6 place-items-center rounded-[3px] border-2 border-dashed border-[#b8924f] text-center font-serif text-[10px] font-semibold leading-tight text-[#9a6b2a]">Zion<br />Hills</div>
-              <div className={`${lxEyebrow} text-[#7a6830]`}>Today at</div>
-              <div className="font-serif text-[27px] font-semibold italic leading-none text-[#13261c]">Zion Hills</div>
-              <div className="mt-2 flex items-end gap-3">
-                <div className="font-serif text-[52px] font-semibold leading-[0.85] text-[#13261c]">{A ? `${Math.round(A.tempC)}°` : '—'}</div>
-                <div className="pb-0.5 text-[12px] leading-tight text-[#5b5a4c]">
-                  {A ? <><b className="text-[#13261c]">{rain > 0.3 ? 'Raining' : skyWord(A.code, A.isDay)}</b><br />{feelsWord(A.feelsC)}, feels {Math.round(A.feelsC)}&deg;</> : 'Weather loading'}
-                </div>
+            {A && (
+              <div className="mt-1.5 flex flex-wrap gap-x-3 text-[11px] text-[#5b5a4c]">
+                {A.aqi != null && <span>Air {Math.round(A.aqi)} &middot; {aqiWord(A.aqi).word}</span>}
+                {A.isDay && <span>UV {A.uv.toFixed(1)}</span>}
+                {setTime && <span>Sunset {setTime}</span>}
               </div>
-              {A && (
-                <div className="mt-1.5 flex flex-wrap gap-x-3 text-[11px] text-[#5b5a4c]">
-                  {A.aqi != null && <span>Air {Math.round(A.aqi)} &middot; {aqiWord(A.aqi).word}</span>}
-                  {A.isDay && <span>UV {A.uv.toFixed(1)}</span>}
-                  {times && <span>Sunset {times.set}</span>}
-                </div>
-              )}
-              <div className="mt-2 border-t border-dashed border-[#c9a96e] pt-2 font-serif text-[15px] italic leading-snug text-[#3a3a2c]">{postcardLine(A, now, rain)}</div>
-            </div>
+            )}
+            <div className="mt-2 border-t border-dashed border-[#c9a96e] pt-2 font-serif text-[15px] italic leading-snug text-[#3a3a2c]">{postcardLine(A, now, rain)}</div>
           </div>
         </div>
-      )}
+      </div>
     </div>
   );
 }

diff --git a/src/components/WildlifeLayer.tsx b/src/components/WildlifeLayer.tsx
@@ -23,7 +23,7 @@ const GROVES: { id: string; pt: Pt; size: number; delay: number }[] = [
 
 const SPOTS: Record<string, { title: string; text: string }> = {
   grove: { title: 'Shade grove', text: 'Mature trees, cool shade and birdsong — a quiet place to pause between holes.' },
-  peacock: { title: 'Peacock Green', text: 'Peacocks wander onto the 4th green at first light. Come and watch them strut.' },
+  peacock: { title: 'Peacocks', text: 'Peacocks wander onto the 4th green at first light. Come and watch them strut.' },
   bird: { title: 'Over the 4th', text: 'Small birds wheel over the green and its trees, all day long.' },
   parrot: { title: 'Parrot perch', text: 'Parrots chatter in the trees around the clubhouse — listen as you arrive.' },
   egret: { title: 'Egret Lake', text: 'An egret keeps watch over the water, always at a safe distance.' },
@@ -329,15 +329,12 @@ export function WildlifeLayer({ toScreen, zoom, upright, night = 0, safe = null,
       {at([83.0, 77.6], (
         <>
           <div className="absolute" style={{ animation: 'zh-strut 24s ease-in-out infinite' }}>
-            <div className="absolute -translate-x-1/2 -translate-y-1/2"><Hit id="peacock" label="Peacock Green"><Peacock size={56 * k} /></Hit></div>
+            <div className="absolute -translate-x-1/2 -translate-y-1/2"><Hit id="peacock" label="Peacocks"><Peacock size={56 * k} /></Hit></div>
           </div>
           <div className="absolute" style={{ animation: 'zh-strut 31s ease-in-out -11s infinite', left: 22 * k, top: 20 * k }}>
-            <div className="absolute -translate-x-1/2 -translate-y-1/2"><Hit id="peacock" label="Peacock Green"><Peacock size={42 * k} /></Hit></div>
+            <div className="absolute -translate-x-1/2 -translate-y-1/2"><Hit id="peacock" label="Peacocks"><Peacock size={42 * k} /></Hit></div>
           </div>
           <div className="absolute left-0 top-0">{bubble('peacock', 'peacock')}</div>
-          {zoom >= 2 && (
-            <div className="pointer-events-none absolute left-1/2 top-9 -translate-x-1/2 whitespace-nowrap rounded-full bg-[#fbf7ee]/[0.9] px-2.5 py-0.5 font-serif text-[13px] font-semibold italic text-[#13261c] ring-1 ring-[#c9a96e]/50">Peacock Green</div>
-          )}
         </>
       ), 'peacocks', 16)}
       {at([83.0, 77.6], (

diff --git a/src/components/LiveInventoryBoard.tsx b/src/components/LiveInventoryBoard.tsx
@@ -15,7 +15,7 @@ import { CartsLayer } from './CartsLayer';
 import { AmbientLayer } from './AmbientLayer';
 import { TerrainLayer } from './TerrainLayer';
 import { SkyLayer } from './SkyLayer';
-import { Cartouche } from './Cartouche';
+import { Postcard } from './Cartouche';
 import { SponsorSigns } from './SponsorSigns';
 import type { Atmosphere } from '@/lib/mapInfo';
 import type { Daylight } from '@/lib/daylight';
@@ -997,7 +997,7 @@ export function MasterPlanBoard({
                   <polyline points={routePts.map((q) => toScreen(q).join(',')).join(' ')} fill="none" stroke="white" strokeOpacity={0.7} strokeWidth={2} strokeDasharray="2 10" strokeLinecap="round" className="animate-route-flow" />
                 </svg>
               )}
-              {ambient && scenery && <Cartouche toScreen={toScreen} zoom={zoom} layerWidth={size.width} upright={upright} turned={turned} atmosphere={atmosphere} night={night} />}
+              {ambient && scenery && <Postcard toScreen={toScreen} zoom={zoom} layerWidth={size.width} upright={upright} atmosphere={atmosphere} night={night} />}
               {ambient && publicView && <SponsorSigns toScreen={toScreen} zoom={zoom} upright={upright} safe={safe} viewport={viewport} />}
               {ambient && <AmbientLayer toScreen={toScreen} zoom={zoom} upright={upright} sun={1 - night} safe={safe} viewport={viewport} />}
               {wildlife && zoom >= 1.8 && <WildlifeLayer toScreen={toScreen} zoom={zoom} upright={upright} night={night} safe={safe} viewport={viewport} />}

diff --git a/scripts/build_margin_art.py b/scripts/build_margin_art.py
@@ -19,7 +19,6 @@ KEEP_CLEAR = {
     'legend': (6, 66, 29, 95),
     'credits': (87, 83, 100, 98),
     'compass': (0, 90, 5, 100),
-    'cartouche': (72.5, 30.0, 97.5, 49.5),
     'postcard': (9.0, 3.0, 31.0, 20.5),
 }
 
@@ -95,13 +94,13 @@ h = 1.0 * noise(260) + 0.55 * noise(130) + 0.28 * noise(64) + 0.1 * noise(30)
 h = gauss_fft(h, 6)
 hn = (h - h.min()) / (h.max() - h.min())
 
-levels = np.floor(hn * 16).astype(int)
+levels = np.floor(hn * 9).astype(int)
 edge = (levels != np.roll(levels, -1, 1)) | (levels != np.roll(levels, -1, 0))
 major = ((levels % 4) != (np.roll(levels, -1, 1) % 4)) | ((levels % 4) != (np.roll(levels, -1, 0) % 4))
 major = major & edge
 line = gauss_fft(edge.astype(np.float32), 0.9) * 2.6
 line_major = gauss_fft(dilate(major, 1).astype(np.float32), 0.9) * 2.6
-ac = np.clip(0.17 * line + 0.17 * line_major, 0, 0.36)
+ac = np.clip(0.07 * line + 0.09 * line_major, 0, 0.2)
 
 gy, gx = np.gradient(gauss_fft(h, 5))
 shade = np.clip((-(gx + gy)) * 60, -1, 1)
